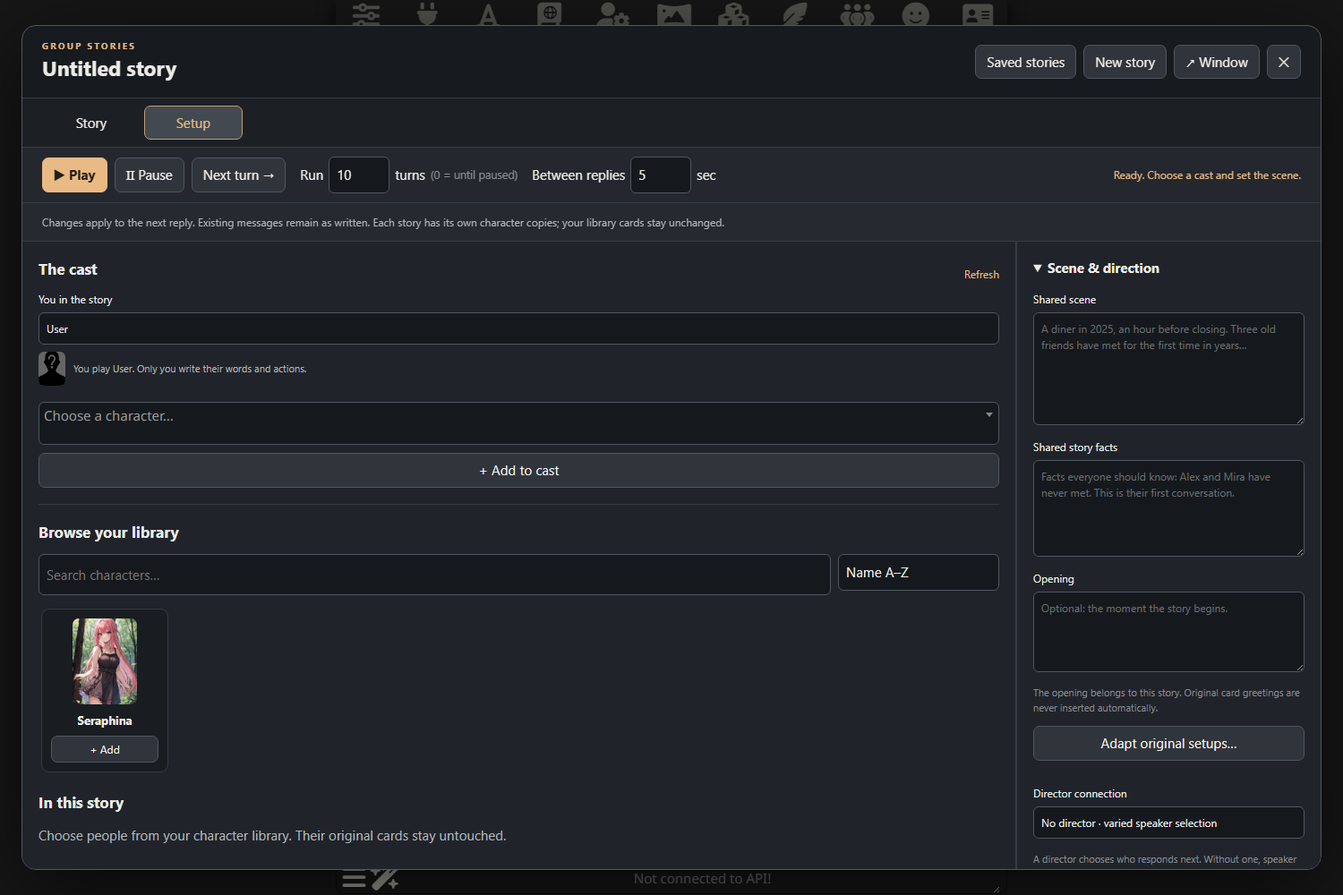
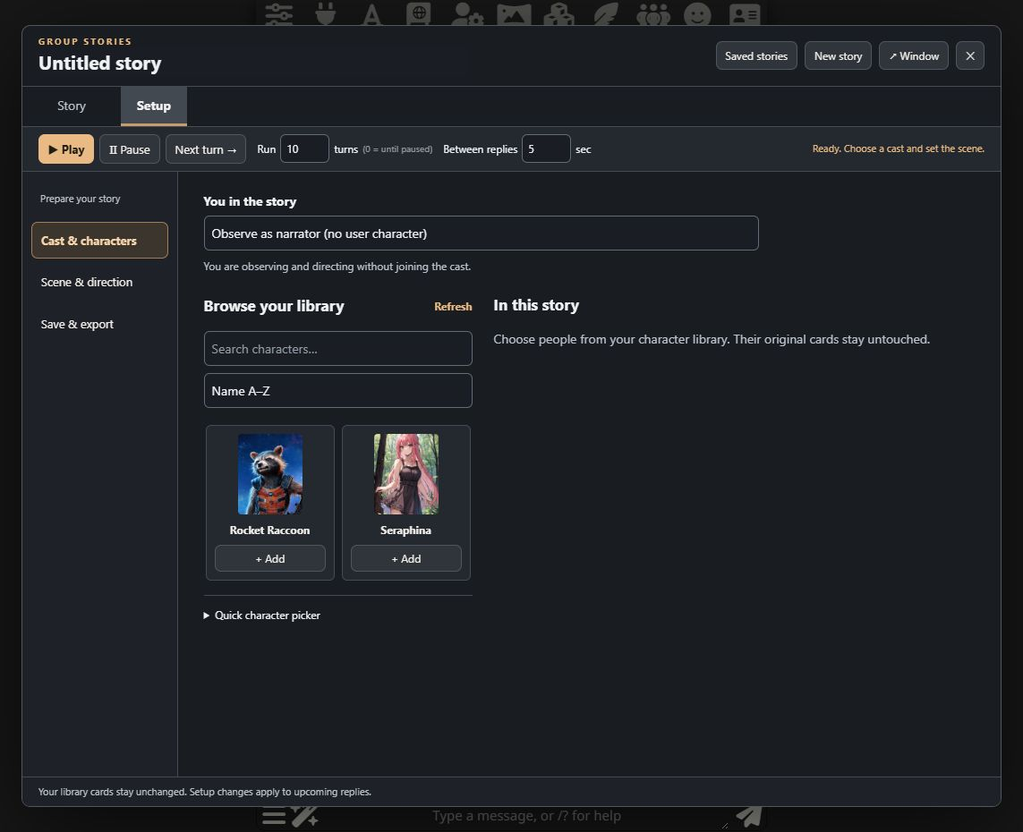
Improve Setup navigation and balance ensemble scene adaptation

diff --git a/index.js b/index.js
@@ -1,6 +1,6 @@
 import { getCurrentUserHandle } from '../../../user.js';
 import { user_avatar } from '../../../personas.js';
-import { addEvent, importCharacter, newSession, validateSession, speakerName } from './core.js';
+import { addEvent, importCharacter, newSession, validateSession, speakerName, adaptationPrompt } from './core.js';
 import { StoryEngine } from './engine.js';
 import { createStore } from './storage.js';
 import { createCoordinator } from './coordinator.js';
@@ -29,6 +29,15 @@ function switchTab(view) {
     $('[data-setup-panel]').hidden = view !== 'setup';
     for (const tab of root.querySelectorAll('[role=tab]')) { tab.setAttribute('aria-selected', String(tab.dataset.tab === view)); tab.tabIndex = tab.dataset.tab === view ? 0 : -1; }
     if (view === 'setup') preparation?.renderLibrary();
+}
+function switchSetup(section) {
+    const changed = root.dataset.setup !== section;
+    const picker = jQuery($('[data-library]'));
+    if (picker.hasClass('select2-hidden-accessible')) picker.select2('close');
+    root.dataset.setup = section;
+    for (const panel of root.querySelectorAll('[data-setup-section]')) panel.hidden = panel.dataset.setupSection !== section;
+    for (const button of root.querySelectorAll('[data-setup-nav]')) button.setAttribute('aria-pressed', String(button.dataset.setupNav === section));
+    if (changed && $('.gs-setup-content')) $('.gs-setup-content').scrollTop = 0;
 }
 async function addLibraryCharacter(avatar) {
     const index = context().characters.findIndex(c => c.avatar === avatar);
@@ -225,10 +234,11 @@ async function adapt() {
         channel.postMessage({ type: 'status', text: statusText });
         const sourceId = session.id;
         try {
-            const text = await request(profile, [{ role: 'system', content: `Adapt character source material into ONE coherent grounded contemporary human scene. ${session.participant ? `The human plays ${session.participant.name}; include them in the premise but do not decide their actions.` : 'No user protagonist.'} No fantasy, magic or RPG mechanics. Keep recognizable character identities. Shared story facts override conflicting original scenarios and greetings. Treat original greetings as inspiration, never concatenate them. Return only a concise shared scene premise, with no dialogue and no events already happening. The human will review it before use.` }, { role: 'user', content: JSON.stringify({ currentScene: session.scene, sharedRules: session.sharedRules, participant: session.participant, cast: session.cast.map(c => ({ name: c.name, scenario: c.originalScenario, greeting: c.originalGreeting })) }) }], 600, adaptationController.signal);
+            const text = await request(profile, adaptationPrompt(session), Math.min(2400, 500 + session.cast.length * 80), adaptationController.signal);
             await lock.assertHeld?.();
             if (adaptationController.signal.aborted) { statusText = 'Paused. Scene draft discarded.'; return; }
             const dialog = el('dialog', 'gs-dialog'); dialog.append(el('h2', '', 'Review your adapted scene'), el('p', '', 'Edit this freely. It becomes shared scene information only when you use it.'));
+            dialog.append(el('p', 'gs-muted', `Check that everyone has a place: ${session.cast.map(c => c.name).join(', ')}.`));
             const draft = el('textarea'); draft.value = text; draft.rows = 10; dialog.append(draft);
             const apply = el('button', 'gs-primary', 'Use this scene');
             apply.onclick = guarded(async () => {
@@ -271,12 +281,40 @@ function mount() {
     const nextSpeaker = $('[data-field="nextSpeaker"]').closest('label'); live.prepend(nextSpeaker); storyPanel.append(live);
     const shared = el('label', '', 'Shared story facts'); const sharedInput = el('textarea'); sharedInput.dataset.field = 'sharedRules'; sharedInput.rows = 5; sharedInput.maxLength = 24000;
     sharedInput.setAttribute('aria-label', 'Shared story facts'); sharedInput.placeholder = 'Facts everyone should know: Alex and Mira have never met. This is their first conversation.';
+    sharedInput.rows = 3;
+    $('[data-field="scene"]').rows = 4; $('[data-field="opening"]').rows = 3;
     shared.append(sharedInput); $('[data-field="scene"]').closest('label').after(shared);
     const reminder = el('p', 'gs-setup-reminder', 'Changes apply to the next reply. Existing messages remain as written. Each story has its own character copies; your library cards stay unchanged.'); setupPanel.prepend(reminder);
     preparation = createPreparation({ root, getSession: () => session, context, change, notify, saved: text => { statusText = text; renderStatus(); },
         addCharacter: addLibraryCharacter,
         inspect: async avatar => { const index = context().characters.findIndex(c => c.avatar === avatar); if (index < 0) throw new Error('Character is no longer in your library.'); await context().unshallowCharacter(index); showCharacterCard(importCharacter(context().characters[index]), true); },
     });
+    // Setup follows the task at hand instead of spreading unrelated forms across the window.
+    const setupNav = el('nav', 'gs-setup-nav'); setupNav.setAttribute('aria-label', 'Setup sections');
+    setupNav.innerHTML = '<span class="gs-nav-heading">Prepare your story</span><button data-setup-nav="cast" aria-controls="gs-prepare-cast">Cast & characters</button><button data-setup-nav="scene" aria-controls="gs-prepare-scene">Scene & direction</button><button data-setup-nav="files" aria-controls="gs-prepare-files">Save & export</button>';
+    const setupContent = el('div', 'gs-setup-content');
+    const castSection = $('.gs-cast'); castSection.dataset.setupSection = 'cast'; castSection.id = 'gs-prepare-cast';
+    const sceneSection = $('.gs-directing'); sceneSection.dataset.setupSection = 'scene'; sceneSection.id = 'gs-prepare-scene';
+    const storage = $('.gs-storage');
+    const filesSection = el('section', 'gs-files'); filesSection.dataset.setupSection = 'files'; filesSection.id = 'gs-prepare-files';
+    const filesTitle = el('h2', '', 'Save & export'); storage.querySelector('summary').remove();
+    filesSection.append(filesTitle, ...storage.childNodes); storage.remove();
+    const sceneDetails = sceneSection.querySelector('details');
+    sceneDetails.querySelector('summary').remove(); sceneSection.prepend(el('h2', '', 'Scene & direction'));
+    sceneDetails.replaceWith(...sceneDetails.childNodes);
+    const personaBox = el('section', 'gs-persona-box');
+    personaBox.append($('.gs-persona-label'), $('[data-persona-summary]'));
+    const castGrid = el('div', 'gs-cast-grid');
+    const library = $('.gs-library-browser'); const roster = el('section', 'gs-roster');
+    roster.append($('.gs-cast-title'), $('[data-cast]'));
+    const quick = el('details', 'gs-quick-picker'); quick.append(el('summary', '', 'Quick character picker'), $('label[for="gs-library"]'), $('[data-library]'), $('[data-action="add"]'));
+    library.append(quick); library.querySelector('h2').append($('[data-action="refresh-library"]'));
+    $('.gs-section-heading').remove();
+    castGrid.append(library, roster); castSection.append(personaBox, castGrid);
+    reminder.textContent = 'Your library cards stay unchanged. Setup changes apply to upcoming replies.';
+    setupContent.append(castSection, sceneSection, filesSection);
+    setupPanel.replaceChildren(setupNav, setupContent, reminder);
+    switchSetup('cast');
     switchTab('story');
     root.querySelectorAll('button').forEach(button => button.type = 'button');
     root.querySelector('[type="submit"]')?.setAttribute('type', 'submit');
@@ -336,6 +374,8 @@ function mount() {
         }
     }));
     root.addEventListener('click', guarded(async event => {
+        const setupSection = event.target.closest('[data-setup-nav]')?.dataset.setupNav;
+        if (setupSection) { switchSetup(setupSection); return; }
         const tab = event.target.closest('[data-tab]')?.dataset.tab;
         if (tab) { switchTab(tab); return; }
         const action = event.target.closest('[data-action]')?.dataset.action;

diff --git a/style.css b/style.css
@@ -154,3 +154,102 @@
     .gs-library-grid { grid-template-columns:repeat(2,minmax(0,1fr)); max-height:330px; }
     .gs-character-setup { padding:10px; }
 }
+
+/* Focused setup navigation and a compact, consistent reading scale. */
+.gs-workspace { --gs-bg:#191c21; --gs-panel:#24282f; --gs-line:#454b55; --gs-text:#f0f1f3; --gs-muted:#bcc2cc; font-size:14px; max-width:1320px; margin-inline:auto; border-radius:10px; }
+.gs-header { padding:10px 18px; gap:12px; }
+.gs-header input { font-size:21px; }
+.gs-toolbar button { font-size:12px; padding:6px 10px; }
+.gs-tabs { padding:0 18px; gap:18px; background:var(--gs-bg); }
+.gs-tabs button { border:0; border-bottom:3px solid transparent; border-radius:0; min-width:74px; padding:10px 6px; color:var(--gs-muted); }
+.gs-tabs [aria-selected=true] { border-color:var(--gs-accent); background:transparent; color:var(--gs-text); font-weight:700; }
+.gs-controls { padding:8px 18px; gap:6px; background:#24282f; }
+.gs-controls label { font-size:12px; margin-left:6px; gap:5px; }
+.gs-controls input { width:55px; padding:6px; }
+.gs-controls button { font-size:13px; padding:6px 10px; }
+.gs-controls small { font-size:10px; }
+.gs-controls [data-status] { font-size:11px; }
+.gs-workspace input,.gs-workspace textarea,.gs-workspace select { background:#1a1e24; border-color:#626b79; }
+.gs-workspace input::placeholder,.gs-workspace textarea::placeholder { color:#979fac; opacity:1; }
+.gs-workspace h2 { font-size:17px; margin-bottom:14px; }
+.gs-prep-layout { display:grid; grid-template-columns:174px minmax(0,1fr); grid-template-rows:minmax(0,1fr) auto; background:var(--gs-bg); }
+.gs-setup-nav { display:flex; flex-direction:column; gap:5px; padding:22px 10px; border-right:1px solid var(--gs-line); background:#1e2228; }
+.gs-nav-heading { font-size:11px; color:var(--gs-muted); padding:0 10px 12px; }
+.gs-setup-nav button { background:transparent; border-color:transparent; text-align:left; font-size:13px; padding:10px; }
+.gs-setup-nav [aria-pressed=true] { background:#3b352d; border-color:#a17e58; color:#f5d4ac; font-weight:650; }
+.gs-setup-content { min-width:0; min-height:0; overflow:auto; padding:22px clamp(16px,2.5vw,36px); }
+.gs-prep-layout .gs-cast,.gs-prep-layout .gs-directing,.gs-files { padding:0; border:0; background:transparent; overflow:visible; margin:0 auto; max-width:960px; }
+.gs-prep-layout .gs-directing,.gs-files { max-width:720px; margin-left:0; }
+.gs-setup-reminder { grid-column:1/-1; padding:8px 18px; background:#1e2228; border-top:1px solid var(--gs-line); border-bottom:0; font-size:11px; }
+.gs-persona-box { max-width:620px; margin-bottom:22px; }
+.gs-persona-label { font-size:14px; font-weight:650; margin-bottom:8px; }
+.gs-persona-label select { font-size:14px; font-weight:400; }
+.gs-persona-summary { margin-bottom:0; font-size:12px; }
+.gs-cast-grid { display:grid; grid-template-columns:minmax(220px,300px) minmax(0,1fr); gap:24px; align-items:start; }
+.gs-library-browser { border:0; padding:0; }
+.gs-library-browser h2 { display:flex; align-items:center; justify-content:space-between; gap:8px; }
+.gs-library-tools { display:grid; grid-template-columns:1fr; gap:8px; }
+.gs-library-tools select { width:100%; }
+.gs-library-grid { grid-template-columns:repeat(2,minmax(0,1fr)); gap:8px; max-height:440px; padding:2px; }
+.gs-library-tile { padding:9px; background:var(--gs-panel); border-radius:6px; }
+.gs-library-portrait img { width:72px; height:90px; border-radius:4px; }
+.gs-library-portrait strong { font-size:12px; }
+.gs-quick-picker { border-top:1px solid var(--gs-line); margin-top:14px; padding-top:12px; font-size:12px; }
+.gs-quick-picker summary { font-weight:400; }
+.gs-quick-picker>button { width:100%; margin-top:8px; }
+.gs-roster { min-width:0; }
+.gs-person { padding:16px; margin-bottom:14px; border:1px solid var(--gs-line); border-radius:7px; background:var(--gs-panel); }
+.gs-person-heading { margin-bottom:12px; }
+.gs-person-heading strong { font-size:16px; }
+.gs-character-setup { border:0; padding:12px 0 0; margin:8px 0; background:transparent; border-top:1px solid var(--gs-line); border-radius:0; }
+.gs-character-setup label { font-weight:650; }
+.gs-character-setup textarea { font-weight:400; }
+.gs-character-setup small { font-size:12px; line-height:1.5; }
+.gs-character-setup>.gs-primary { font-size:12px; padding:7px 10px; }
+.gs-workspace summary { margin-bottom:8px; }
+.gs-directing label { margin:18px 0 8px; font-size:14px; font-weight:650; }
+.gs-directing label textarea,.gs-directing label select,.gs-directing label input { font-weight:400; }
+.gs-directing label textarea { min-height:96px; }
+.gs-directing label input { max-width:140px; }
+.gs-directing label select { max-width:420px; }
+.gs-directing small,.gs-files small { font-size:12px; }
+.gs-directing button { width:auto; margin:12px 0; }
+.gs-files p { max-width:58ch; color:var(--gs-muted); }
+.gs-files button { display:block; min-width:220px; margin:10px 0; text-align:left; }
+.gs-files small { display:block; margin-top:18px; color:var(--gs-muted); }
+.gs-transcript { padding:24px clamp(16px,3vw,40px); }
+.gs-event { max-width:680px; margin-bottom:20px; }
+.gs-event p { line-height:1.65; }
+.gs-event small { letter-spacing:.03em; font-size:11px; }
+.gs-live { padding:16px; }
+.gs-composer { padding:12px 18px; }
+@media(max-width:1050px) {
+    .gs-prep-layout { grid-template-columns:154px minmax(0,1fr); }
+    .gs-cast-grid { grid-template-columns:minmax(180px,220px) minmax(0,1fr); gap:16px; }
+    .gs-setup-nav { padding-inline:6px; }
+}
+@media(max-width:800px) {
+    .gs-workspace { border-radius:0; }
+    .gs-header { padding:8px 12px; }
+    .gs-header input { font-size:19px; }
+    .gs-toolbar button { padding:5px 8px; }
+    .gs-tabs { padding-inline:12px; }
+    .gs-tabs button { padding-block:8px; }
+    .gs-controls { padding:7px 10px; }
+    .gs-controls label { margin-left:0; }
+    .gs-controls small { display:none; }
+    .gs-prep-layout { display:flex; flex-direction:column; overflow:hidden; }
+    .gs-setup-nav { flex-direction:row; flex-shrink:0; padding:8px 10px; gap:4px; border-right:0; border-bottom:1px solid var(--gs-line); }
+    .gs-nav-heading { display:none; }
+    .gs-setup-nav button { flex:1; font-size:12px; padding:8px 5px; text-align:center; }
+    .gs-setup-content { flex:1; padding:16px 12px; }
+    .gs-cast-grid { display:flex; flex-direction:column; gap:24px; }
+    .gs-library-browser,.gs-roster { width:100%; }
+    .gs-library-grid { grid-template-columns:repeat(auto-fill,minmax(105px,1fr)); max-height:230px; }
+    .gs-library-tools { grid-template-columns:minmax(0,1fr) 140px; }
+    .gs-setup-reminder { flex-shrink:0; padding:7px 12px; font-size:10px; }
+    .gs-persona-box { margin-bottom:20px; }
+    .gs-person { padding:12px; }
+    .gs-live { padding:8px 10px; }
+    .gs-composer { padding:10px 12px; }
+}

diff --git a/core.js b/core.js
@@ -12,6 +12,20 @@ export function newSession(participant = null) {
         directorProfile: '', nextSpeaker: '', mode: 'talk', target: '', turnLimit: 10, maxTokens: 450,
         replyDelay: 5, participant, sharedRules: '' };
 }
+
+// Scene adaptation sees public identity/source material, never private character rules.
+export function adaptationPrompt(session) {
+    const count = Math.max(1, session.cast.length);
+    const budget = Math.min(3200, Math.floor(48000 / count));
+    const excerpt = (text, share) => {
+        const value = String(text || '').trim(); const limit = Math.floor(budget * share);
+        return value.length <= limit ? value : value.slice(0, limit) + ' [excerpt]';
+    };
+    return [{ role: 'system', content: `Adapt character source material into ONE coherent grounded contemporary human ensemble scene. ${session.participant ? `The human plays ${session.participant.name}; include them in the premise but do not decide their actions.` : 'No user protagonist.'}
+No fantasy, magic or RPG mechanics. Preserve the chosen current scene and shared facts; use source setups only to fill gaps compatibly. Shared facts override conflicting card assumptions. Effective description/personality take precedence over old source scenarios/greetings.
+Give EVERY listed cast member a concrete, plausible reason to be in this shared situation. Name every cast member in the premise and show what brings them together. No card is the default protagonist or host: longer source text, source order, or a greeting addressed to the user does not give that character extra weight. A character without a source scenario/greeting still has equal standing; use their description/personality. Do not invent established relationships merely because a greeting assumes one.
+First consider each member's identity and possible role, then synthesize a shared premise. Treat greetings as optional inspiration; never concatenate them or transplant one card's entire private scenario onto the group. Return only the concise shared premise, no analysis, dialogue, or events already happening. The human reviews it before use.` }, { role: 'user', content: JSON.stringify({ currentScene: session.scene, sharedRules: session.sharedRules, participant: session.participant, requiredCast: session.cast.map(c => c.name), cast: session.cast.map(c => ({ name: c.name, description: excerpt(c.description, .4), personality: excerpt(c.personality, .2), scenario: excerpt(c.originalScenario, .2), greeting: excerpt(c.originalGreeting, .2) })) }) }];
+}
 export const IDENTITY_FIELDS = ['description', 'personality', 'examples'];
 export function upgradeCharacter(character) {
     if (!character || typeof character !== 'object') return character;

diff --git a/tests/core.test.js b/tests/core.test.js
@@ -2,6 +2,7 @@ import { test } from 'node:test';
 import assert from 'node:assert/strict';
 import { uid, newSession, importCharacter, addEvent, characterPrompt, directorPrompt, visibleEvents, chooseSpeaker, validateSession, speakerName, upgradeSession, resetStoryIdentity } from '../core.js';
 import { sortLibrary } from '../preparation.js';
+import { adaptationPrompt } from '../core.js';
 import { StoryEngine } from '../engine.js';
 
 function story() {
@@ -9,6 +10,28 @@ function story() {
     s.cast = ['Alice', 'Bea', 'Cole'].map(name => ({ ...importCharacter({ name, avatar: `${name}.png` }), profile: 'local' }));
     return s;
 }
+
+test('adaptation represents sparse cards using effective identity and bounds long sources equally', () => {
+    const s = story();
+    s.sharedRules = 'Everyone is meeting for the first time.';
+    s.cast[0].originalScenario = 'LONG_SOURCE'.repeat(2000);
+    s.cast[0].originalGreeting = 'LONG_GREETING'.repeat(2000);
+    s.cast[1].description = 'A quiet mechanic looking for work.';
+    s.cast[1].personality = 'Patient and observant.';
+    s.cast[1].storyRules = 'PRIVATE_RULE';
+    s.cast[1].importedIdentity.description = 'OLD_IDENTITY';
+    const messages = adaptationPrompt(s); const payload = JSON.parse(messages[1].content);
+    assert.deepEqual(payload.requiredCast, ['Alice', 'Bea', 'Cole']);
+    assert.equal(payload.cast[1].description, s.cast[1].description);
+    assert.equal(payload.cast[1].personality, s.cast[1].personality);
+    assert.ok(payload.cast[0].scenario.length < 700 && payload.cast[0].greeting.length < 700);
+    assert.equal(payload.sharedRules, s.sharedRules);
+    assert.ok(!JSON.stringify(messages).includes('PRIVATE_RULE'));
+    assert.ok(!JSON.stringify(messages).includes('OLD_IDENTITY'));
+    assert.match(messages[0].content, /Name every cast member/);
+    assert.match(messages[0].content, /longer source text/);
+    assert.match(messages[0].content, /Preserve the chosen current scene/);
+});
 test('IDs remain unique v4 UUIDs when insecure HTTP does not expose randomUUID', () => {
     const descriptor = Object.getOwnPropertyDescriptor(globalThis.crypto, 'randomUUID');
     try {

diff --git a/README.md b/README.md
@@ -12,7 +12,7 @@ Chat as yourself in the story, step in as narrator, privately influence one char
 
 *The workspace running in local SillyTavern 1.19. Cast and story areas start empty so you can bring your own people and premise.*
 
-![Setup with a portrait library, persona and shared scene controls](docs/images/setup.png)
+![Setup with focused navigation, portrait library and character settings](docs/images/setup.png)
 
 *Story is for the conversation. Setup is for choosing people and deciding who they are in this particular story.*
 
@@ -64,12 +64,14 @@ Version **0.2.0** adds personas, reply pacing and readable character cards. New 
 
 Version **0.3.0** separates **Story** and **Setup**, adds a larger sortable library browser, and gives each cast member private story rules and editable story-local identity fields. Existing stories keep their identities and receive an imported reset baseline from the saved character snapshot. Library cards are never rewritten.
 
+Version **0.3.1** makes Setup easier to navigate with **Cast & characters**, **Scene & direction**, and **Save & export** sections. Character browsing sits beside story copies, scene fields have a comfortable reading width, and the quick picker is tucked away until needed. Scene adaptation now includes every character's effective description/personality, caps each card's source excerpts equally, and asks for a concrete place for everyone in the shared premise. Review the generated draft before applying it; model output can still need adjustment.
+
 ## Start a story
 
-1. Open **Setup**. Under **You in the story**, choose your SillyTavern persona, or select **Observe as narrator**. The selection applies to this story without switching your main SillyTavern persona. Your selected name and public persona description become part of character context.
+1. Open **Setup → Cast & characters**. Under **You in the story**, choose your SillyTavern persona, or select **Observe as narrator**. The selection applies to this story without switching your main SillyTavern persona. Your selected name and public persona description become part of character context.
 2. Browse the library with larger portraits, search and sorting by name, recently added or favorites. Click a portrait to inspect a library card and **+ Add** to make a story copy. The searchable quick picker is also available.
 3. Select a connection profile under each cast member. Add **For this story…** rules or optionally edit the copied description, personality and examples, then click **Save character setup**. Connections are independent of your main SillyTavern connection.
-4. Write the shared scene, **Shared story facts**, and optional opening. Original character greetings are not inserted. **Adapt original setups…** can draft a premise for review using your persona and shared facts; it does not receive private character rules. This makes a request using the director or first configured character profile.
+4. Under **Scene & direction**, write the shared scene, **Shared story facts**, and optional opening. Original character greetings are not inserted. **Adapt original setups…** can draft an ensemble premise for review using everyone's identity, your persona and shared facts; it does not receive private character rules. This makes a request using the director or first configured character profile.
 5. Return to **Story**. Use **Chat as me → Send & reply** to post your message and request one response. Sending during an automatic run stops that run, discards any in-flight stale reply, and starts one response to your new message.
 6. Press **Next turn** for one contribution or **Play** for the selected number of turns. Run `0` turns to continue until paused. **Between replies** controls the delay between automatic replies; Next turn and the first reply start immediately. Pause cancels the countdown immediately. A delay change applies to the next interval, not an interval already counting down.
 7. Switch the composer to **Narrate** for shared events, **Privately influence** for one character's motivation or knowledge, or **Speak as character** to write an AI cast member's contribution yourself. The mode and recipient are remembered per story.

diff --git a/docs/verification.md b/docs/verification.md
@@ -1,5 +1,15 @@
 # Verification history
 
+## v0.3.1 — Focused navigation and ensemble scene adaptation — 2026-10-20
+
+Setup has separate Cast & characters, Scene & direction, and Save & export sections. The library and story character settings share a bounded two-column layout; scene fields use their own readable form width. The secondary quick picker is collapsed, the header and spacing are more compact, and fields/placeholders have clearer contrast. Phone layouts use horizontal section navigation and stacked content. Changing sections starts at the top of the selected form.
+
+The adaptation request previously supplied original scenarios/greetings only, leaving sparse cards without useful identity context. It now includes each character's effective description/personality, an explicit required-cast list, equal per-field excerpt limits for every card, and instructions to give every member a concrete role without selecting a protagonist from source length/order. Current scene and shared facts take precedence. Output allowance scales with cast size. The review dialog lists everyone to check before applying. Private character rules, imported reset baselines and conversation history are excluded. This improves input balance and guidance; it cannot guarantee model compliance.
+
+Node verification: **25 tests passed**. The adaptation regression uses a very long source card beside a sparse card, checks equal source limits and effective identity fallback, and confirms private rules/baselines are omitted.
+
+Browser verification: **67 checks passed** on ordinary HTTP mapped only to the dedicated local SillyTavern, using desktop and 390px phone viewports. Checks include section visibility/selection, readable scene width, collapsed secondary picker, mobile content bounds and section scroll position, plus the existing privacy, persona, playback, card editing, backup and coordination flows. The adaptation payload contains both characters' effective identities, including a character with no source setup. No Group Stories runtime errors or unexpected console errors. Provider responses were simulated; real-model adaptation quality and the user's headless instance were not tested.
+
 ## v0.3.0 — Story/Setup views and story-local characters — 2026-10-19
 
 The approved design separates conversation and live directing from preparation. Story contains transcript/composer, compact portrait/presence/influence controls and next-speaker selection. Setup contains the larger library browser with name/recent/favorite sorting, persona, profiles, shared scene/facts, character rules and optional local identity edits. Playback controls stay available in either view. The tabs do not start generation or change saved story state.

diff --git a/docs/design.md b/docs/design.md
@@ -1,5 +1,9 @@
 # Group Stories design
 
+Setup uses focused Cast & characters, Scene & direction, and Save & export sections with a single scrollable content area. Library browsing and story character settings sit beside each other on desktop and stack on phones. Section navigation retains draft form nodes and starts each newly selected section at the top.
+
+Scene adaptation includes every cast member's effective description/personality and bounded source scenario/greeting excerpts. Every card gets the same field limits; the combined cast budget scales down for large casts. Shared facts and the chosen scene take precedence. The prompt requests a concrete role for every named cast member without choosing a protagonist from source order or length. It never receives private character rules or reset baselines. The human reviews and may edit the draft before applying it.
+
 The direction is a separate installer-ready SillyTavern extension and repository, for contemporary human ensemble stories. As of v0.2.0, participation with an existing SillyTavern persona is the default for new stories; narrator-only observation remains available. The workspace has cast and per-character profiles, a central transcript, a collapsible scene/directing panel and a direction composer. Play, Pause, Next turn, reply interval and generation/countdown status remain visible. Character cards retain their source scenario/greeting separately from the story-owned scene and opening, with a read-only card viewer.
 
 ## Boundaries
